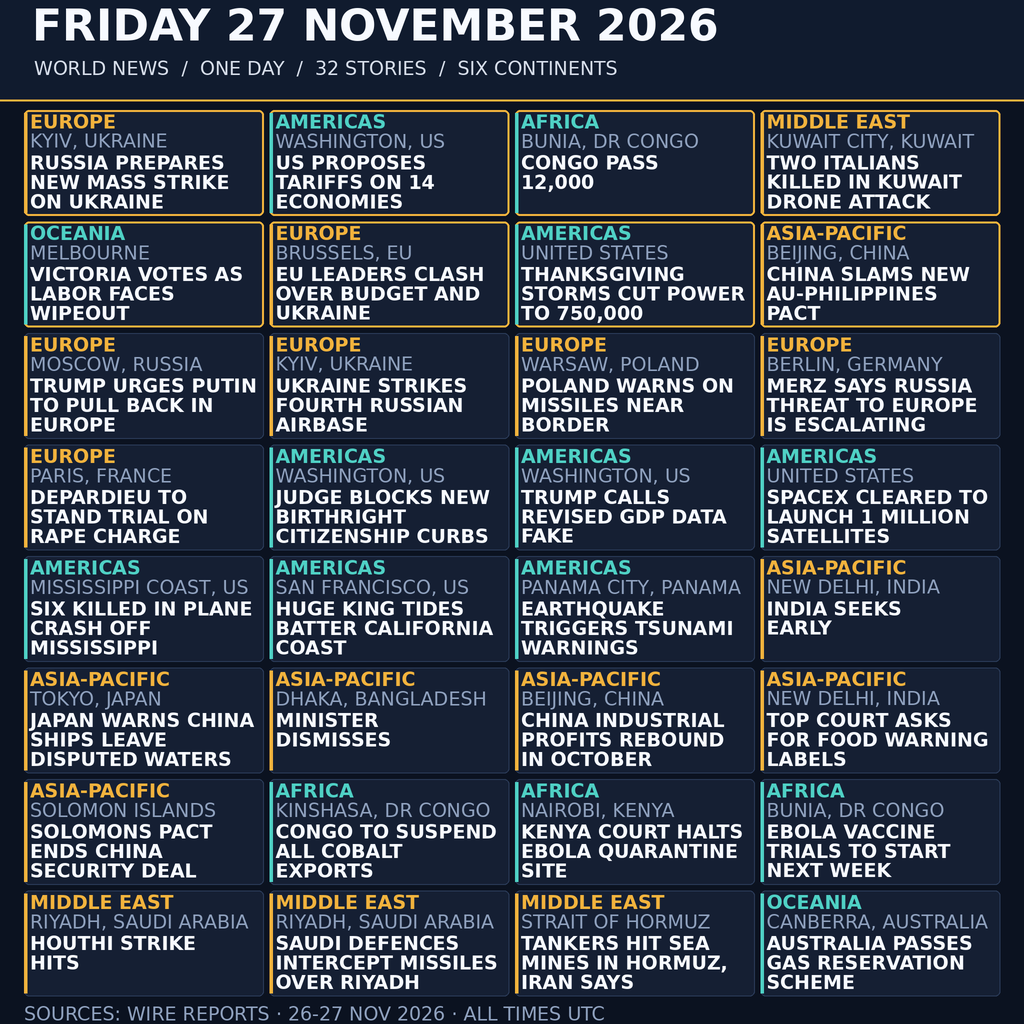
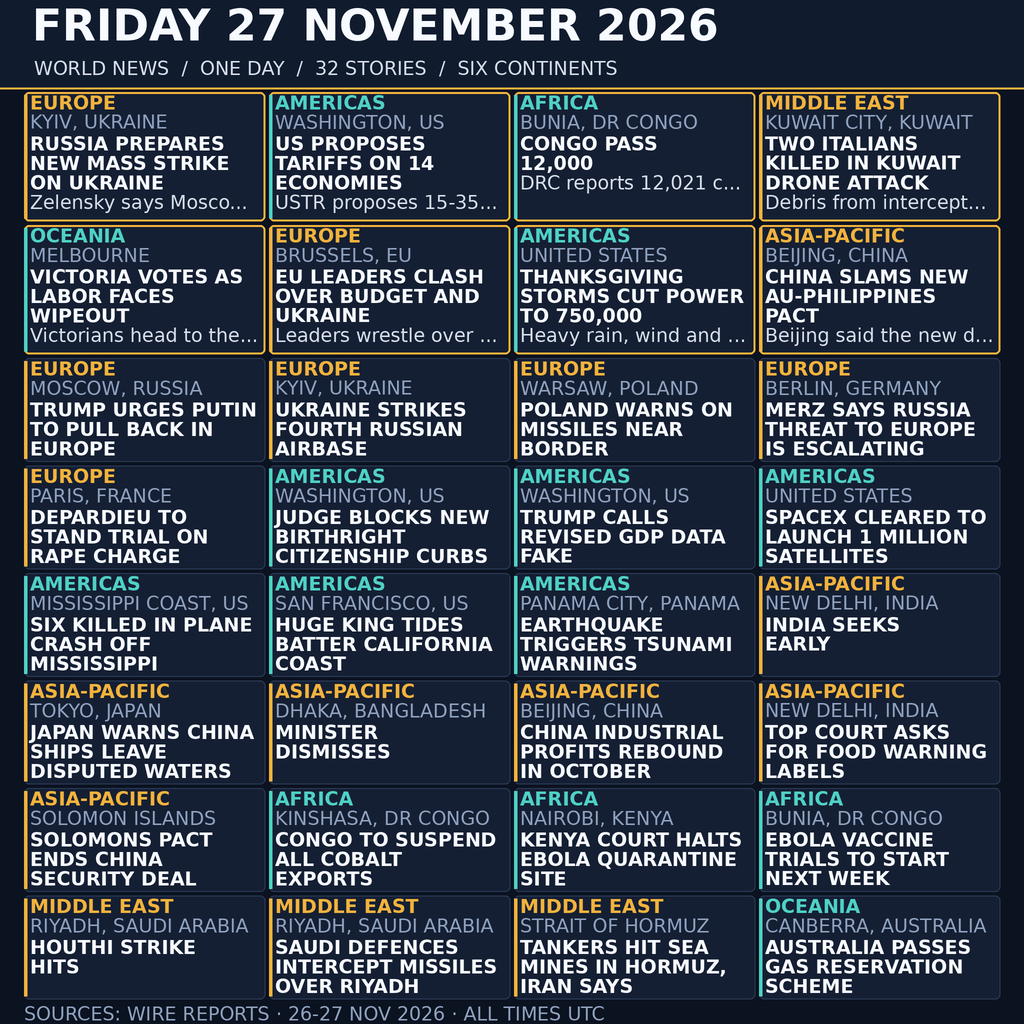
render: one factual summary line per lead card, tighter header/grid

diff --git a/make_image.py b/make_image.py
@@ -284,7 +284,7 @@ def draw_poster() -> Image.Image:
     c = Canvas()
 
     # ---- header: the day named in the largest type on the poster ----
-    header_h = s(100)
+    header_h = s(88)
     c.rect((0, 0, W, header_h), fill="#101B2E")
     c.line((0, header_h, W, header_h), fill=AMBER, width=s(2))
 
@@ -303,9 +303,9 @@ def draw_poster() -> Image.Image:
                sub_font, BODY, name="subtitle")
 
     # ---- grid: all 32 stories in 4 columns; uniform 3-line cards ----
-    grid_y = header_h + s(10)
+    grid_y = header_h + s(4)
     margin = s(24)
-    gap = s(6)
+    gap = s(4)
     cols = 4
     card_w = (W - 2 * margin - (cols - 1) * gap) // cols
     inner_w = card_w - 2 * s(6)
@@ -315,13 +315,17 @@ def draw_poster() -> Image.Image:
     place_font = font(s(19), False)
     # 19 CSS px caps have ~18.5 device px of ink; 39 device px is the line box.
     line_h = 39
-    card_pad_v = s(4)
+    card_pad_v = s(3)
     head_lines_max = 3
     card_h = (2 + head_lines_max) * line_h + 2 * card_pad_v
 
-    row_heights = []
+    summary_font = font(s(19), False)
+    lead_extra = line_h + s(6)  # every lead card gains one factual summary line
+    rows: List[Tuple[Story, ...]] = []
+    row_heights: List[int] = []
     for start in range(0, len(ALL_STORIES), cols):
         row = ALL_STORIES[start:start + cols]
+        rows.append(row)
         for st in row:
             n = len(wrap_words(st.headline, head_font, inner_w))
             assert 1 <= n <= head_lines_max, \
@@ -330,29 +334,33 @@ def draw_poster() -> Image.Image:
                 f"{st.sid}: region too wide: {st.region!r}"
             assert fit_text(place_label(st), place_font, inner_w), \
                 f"{st.sid}: place too wide: {place_label(st)!r}"
-        row_heights.append(card_h)
+        row_heights.append(card_h + (lead_extra if any(st.lead for st in row) else 0))
 
     grid_bottom = grid_y + sum(row_heights) + gap * (len(row_heights) - 1)
     assert grid_bottom <= H - s(24), \
         f"grid overflows canvas: bottom={grid_bottom} > {H - s(24)}"
 
-    for idx, story in enumerate(ALL_STORIES):
-        col, row = idx % cols, idx // cols
-        x0 = margin + col * (card_w + gap)
-        y0 = grid_y + row * (card_h + gap)
-        x1, y1 = x0 + card_w, y0 + card_h
-        outline = AMBER if story.lead else HAIR
-        border = s(2) if story.lead else s(1)
-        c.rect((x0, y0, x1, y1), fill=CARD, outline=outline, width=border,
-               radius=s(5))
-        c.rect((x0, y0 + s(3), x0 + s(3), y1 - s(3)),
-               fill=REGION_COLORS[story.region])
-        draw_card(c, story, x0 + s(6), y0 + card_pad_v,
-                  x1 - s(6), y1 - card_pad_v,
-                  head_font=head_font, region_font=region_font,
-                  place_font=place_font, line_h=line_h,
-                  head_lines_max=head_lines_max, inner_w=inner_w,
-                  prefix=story.sid)
+    y_row = grid_y
+    for row_idx, row in enumerate(rows):
+        row_h = row_heights[row_idx]
+        for col, story in enumerate(row):
+            x0 = margin + col * (card_w + gap)
+            y0 = y_row
+            y1 = y0 + row_h
+            x1 = x0 + card_w
+            outline = AMBER if story.lead else HAIR
+            border = s(2) if story.lead else s(1)
+            c.rect((x0, y0, x1, y1), fill=CARD, outline=outline, width=border,
+                   radius=s(5))
+            c.rect((x0, y0 + s(3), x0 + s(3), y1 - s(3)),
+                   fill=REGION_COLORS[story.region])
+            draw_card(c, story, x0 + s(6), y0 + card_pad_v,
+                      x1 - s(6), y1 - card_pad_v,
+                      head_font=head_font, region_font=region_font,
+                      place_font=place_font, line_h=line_h,
+                      head_lines_max=head_lines_max, inner_w=inner_w,
+                      prefix=story.sid, summary_font=summary_font)
+        y_row += row_h + gap
 
     # ---- footer ----
     foot_font = font(s(19), False)
@@ -368,7 +376,8 @@ def draw_card(c: Canvas, story: Story, x0: int, y0: int, x1: int, y1: int,
               region_font: ImageFont.FreeTypeFont,
               place_font: ImageFont.FreeTypeFont,
               line_h: int, head_lines_max: int, inner_w: int,
-              prefix: str) -> None:
+              prefix: str,
+              summary_font: "ImageFont.FreeTypeFont | None" = None) -> None:
     """Draw one story card: region chip, place, headline; all measured."""
     card_bounds = (x0 - s(4), y0, x1 + s(4), y1)
     c.text((x0, y0), story.region, region_font, REGION_COLORS[story.region],
@@ -388,6 +397,11 @@ def draw_card(c: Canvas, story: Story, x0: int, y0: int, x1: int, y1: int,
                bounds=card_bounds, name=f"{prefix}-head{i}")
         yy += line_h
     assert yy - line_h <= y1, f"{prefix}: headline overflows card"
+
+    if story.lead and summary_font is not None:
+        line = fit_line(story.summary, summary_font, inner_w)
+        c.text((x0, yy), line, summary_font, BODY,
+               bounds=card_bounds, name=prefix + "-summary")
 
 
 
